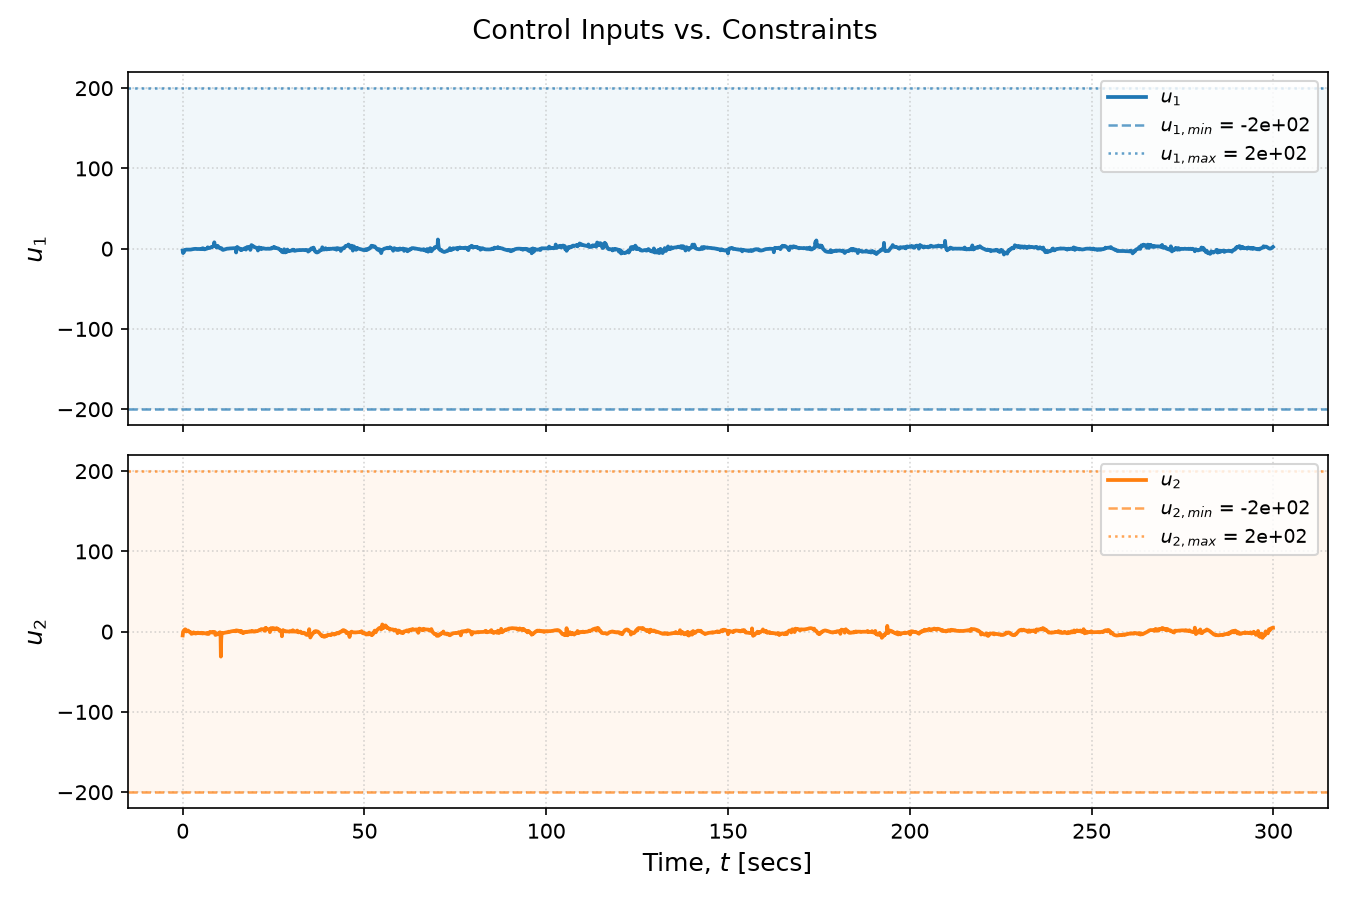
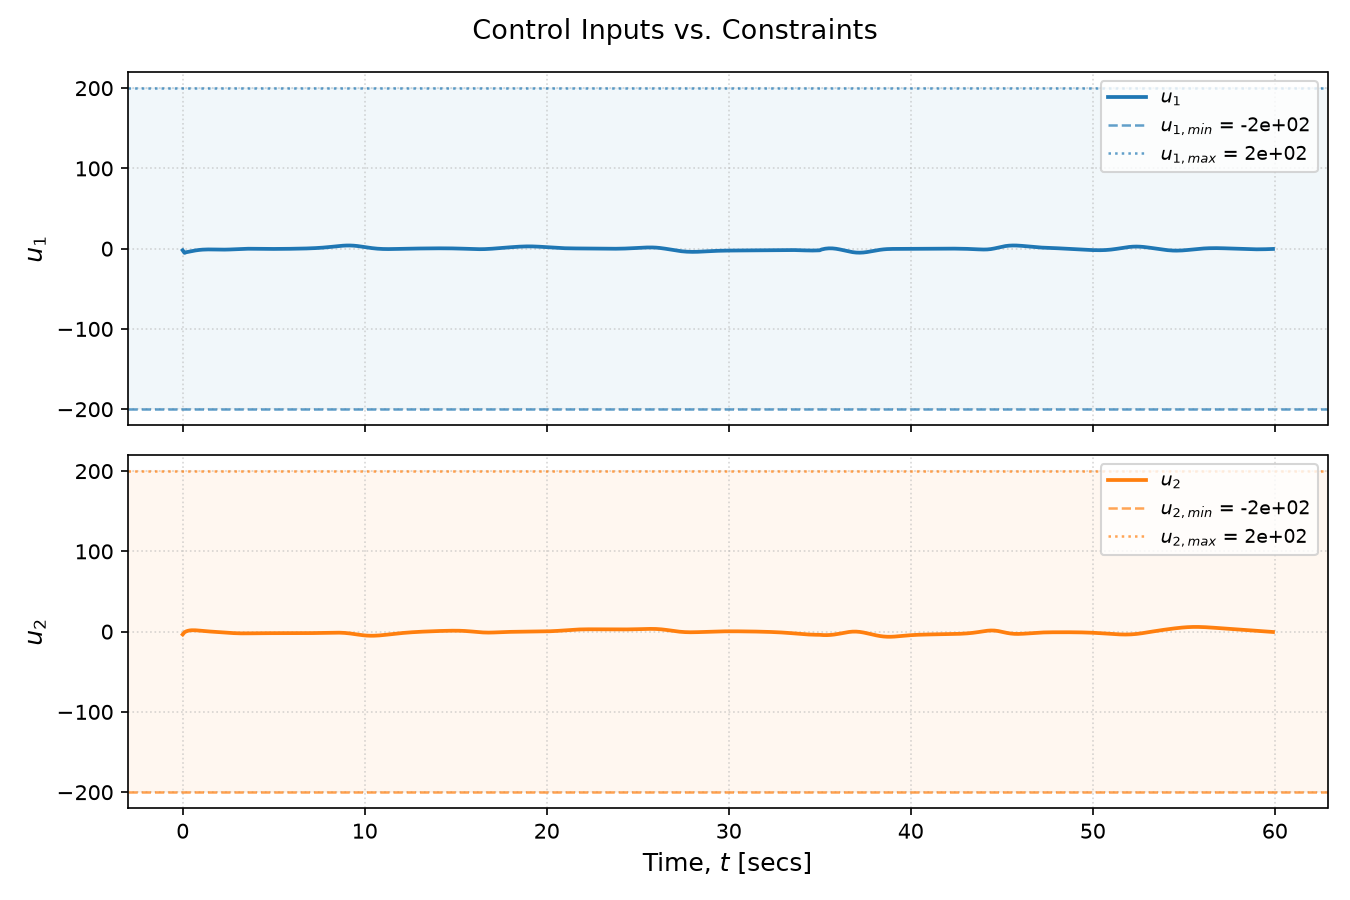
added modelling noise

diff --git a/mpc.py b/mpc.py
@@ -51,6 +51,7 @@ class Modeller():
         self.learning_rate  = cfg['learning_rate'] #learning_rate
         self.optimizer      = cfg['optimizer'] #optimizer
         self.random_seed    = cfg['random_seed'] #random_seed
+        self.rng             = np.random.default_rng(seed=self.random_seed)
         
         self.update_parameters_rate     = int(cfg['update_parameters_rate']) 
         self.update_parameters_count    = 0
@@ -84,7 +85,7 @@ class Modeller():
         excite_max_steps    = int(excite_time / self.Ts) # excitation duration 
         
         # initialize excitation 
-        rng             = np.random.default_rng(seed=self.random_seed)
+        #rng             = np.random.default_rng(seed=self.random_seed)
         u_exc           = np.zeros_like(u_min)    # random input 
         excite_count    = excite_hold_steps       # trigger switch immediately 
         rockback        = False                   # set to False initially, avoids biasing the model in one direction
@@ -102,7 +103,7 @@ class Modeller():
             # determine if rockback needed 
             if excite_count >= excite_hold_steps and not rockback:
                 excite_count = 0
-                u_exc = rng.uniform(u_min, u_max)
+                u_exc = self.rng.uniform(u_min, u_max)
                 rockback = True
             elif excite_count >= excite_hold_steps and rockback:
                 excite_count = 0
@@ -224,6 +225,14 @@ class MPC():
         self.B = np.array(np.array(cfg['B']), ndmin=2)           # input matrix
         self.Q = np.array(np.diag(cfg['Q_diag']), ndmin=2)       # state cost matrix
         self.R = np.array(np.diag(cfg['R_diag']), ndmin=2)       # input cost matrix
+
+        rng = np.random.default_rng(cfg.get("random_seed", 42))
+        # optional modelling noise
+        if cfg['model_noise'] is not None:
+            noise = float(cfg['model_noise'])
+            self.A *= (1.0 + noise * rng.standard_normal(self.A.shape))
+            self.B *= (1.0 + noise * rng.standard_normal(self.B.shape))
+
 
         # we can compute terminal cost based on solution to Discrete Algebraic Riccati Equation
         P   = cfg['P_diag']

diff --git a/main.py b/main.py
@@ -20,8 +20,8 @@ import os
 pipeline = {
     'model':        False,
     'control':      True,
-    'rl_train':     True,
-    'rl_evaluate':  True,
+    'rl_train':     False,
+    'rl_evaluate':  False,
     'visuals':      True
 }
 
@@ -376,6 +376,7 @@ def main(configs_base = 'configs/default'):
         plot_trajectory_path    = cfg_viz['plot_trajectory_path']
 
         # make folders
+        os.makedirs('visualization/animations', exist_ok=True)
         training_folder         = cfg_viz['training_folder']
         os.makedirs(training_folder, exist_ok=True)
         evaluation_folder       = cfg_viz['evaluation_folder']
@@ -428,5 +429,5 @@ def main(configs_base = 'configs/default'):
 
 if __name__ == "__main__":
 
-    main(configs_base = 'configs/default')
+    main(configs_base = 'configs/d-rejection-001')
 

diff --git a/visualization/plot.py b/visualization/plot.py
@@ -11,6 +11,7 @@ import numpy as np
 import matplotlib.pyplot as plt
 import matplotlib.animation as animation
 import json
+import os
 
 
 # helper function for contour plotting
